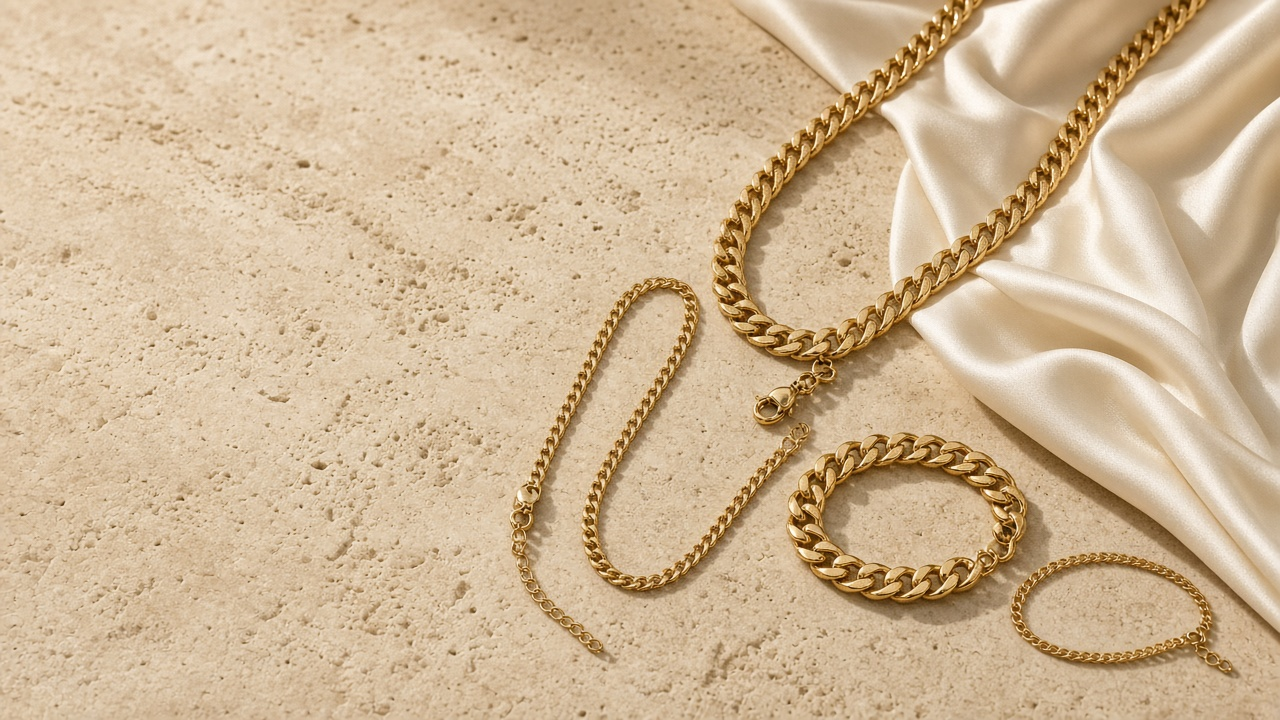
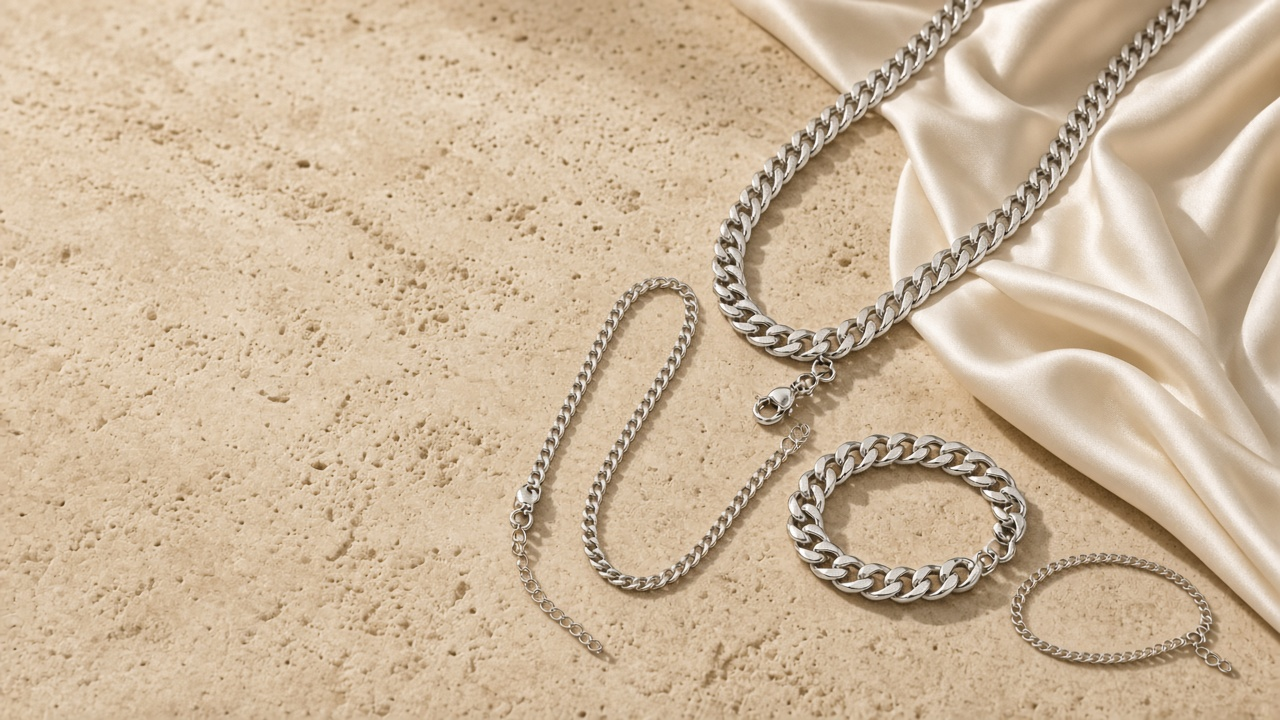
Restyle Ella y Él collection in silver

Changed region(s): [[0.375, 0.0, 0.9688, 0.9472], [0.4375, 0.8556, 0.4688, 0.9167]]

diff --git a/src/lib/products.ts b/src/lib/products.ts
@@ -26,11 +26,11 @@ export const products: Product[] = [
     category: "Para dos",
     style: "Cubana",
     price: 248,
-    material: "Baño de oro 18k · Acero 316L",
+    material: "Plata 925 · Acabado pulido",
     description:
       "El set completo para compartir: una versión firme para él y una más delicada para ella.",
     pieces: "2 collares · 2 brazaletes",
-    gradient: ["#ead8b8", "#bf9558"],
+    gradient: ["#e8e9e8", "#9fa5a8"],
   },
   {
     id: "cubana-collares",
@@ -38,11 +38,11 @@ export const products: Product[] = [
     category: "Solo collares",
     style: "Cubana",
     price: 138,
-    material: "Baño de oro 18k · 5 y 8 mm",
+    material: "Plata 925 · 5 y 8 mm",
     description:
       "Dos cadenas cubanas en anchos complementarios, pensadas para llevar el mismo brillo.",
     pieces: "2 collares",
-    gradient: ["#efe2cb", "#c9a36b"],
+    gradient: ["#f0efeb", "#b3b8ba"],
   },
   {
     id: "cubana-brazaletes",
@@ -50,11 +50,11 @@ export const products: Product[] = [
     category: "Solo brazaletes",
     style: "Cubana",
     price: 98,
-    material: "Baño de oro 18k · Ajustables",
+    material: "Plata 925 · Ajustables",
     description:
       "Brazaletes a juego con dos proporciones y un acabado pulido de alto brillo.",
     pieces: "2 brazaletes",
-    gradient: ["#e8d4af", "#b98b47"],
+    gradient: ["#e3e5e4", "#979da0"],
   },
   {
     id: "cubana-personal",
@@ -62,11 +62,11 @@ export const products: Product[] = [
     category: "Collar + brazalete",
     style: "Cubana",
     price: 128,
-    material: "Baño de oro 18k · 8 mm",
+    material: "Plata 925 · 8 mm",
     description:
       "Cadena y brazalete del mismo calibre para un conjunto limpio y contundente.",
     pieces: "1 collar · 1 brazalete",
-    gradient: ["#ead7b3", "#ad7c39"],
+    gradient: ["#e5e6e5", "#8d9498"],
   },
   {
     id: "barbada-para-dos",
@@ -74,11 +74,11 @@ export const products: Product[] = [
     category: "Para dos",
     style: "Barbada",
     price: 228,
-    material: "Oro laminado 18k · Acero 316L",
+    material: "Plata 925 · Acabado espejo",
     description:
       "Cuatro piezas de eslabón plano que se sienten ligeras y se ven impecables juntas.",
     pieces: "2 collares · 2 brazaletes",
-    gradient: ["#d9cfbd", "#aa9272"],
+    gradient: ["#dfe1e1", "#959c9f"],
   },
   {
     id: "barbada-collares",
@@ -86,11 +86,11 @@ export const products: Product[] = [
     category: "Solo collares",
     style: "Barbada",
     price: 128,
-    material: "Oro laminado 18k · 3 y 6 mm",
+    material: "Plata 925 · 3 y 6 mm",
     description:
       "Un par de collares de perfil suave, uno sutil y otro con más presencia.",
     pieces: "2 collares",
-    gradient: ["#e8dfd0", "#b9a187"],
+    gradient: ["#ececea", "#a9afb1"],
   },
   {
     id: "barbada-brazaletes",
@@ -98,11 +98,11 @@ export const products: Product[] = [
     category: "Solo brazaletes",
     style: "Barbada",
     price: 88,
-    material: "Oro laminado 18k · Ajustables",
+    material: "Plata 925 · Ajustables",
     description:
       "Dos brazaletes planos y cómodos creados para acompañarse todos los días.",
     pieces: "2 brazaletes",
-    gradient: ["#ddd2c0", "#aa9274"],
+    gradient: ["#dfe1df", "#949b9e"],
   },
   {
     id: "barbada-personal",
@@ -110,11 +110,11 @@ export const products: Product[] = [
     category: "Collar + brazalete",
     style: "Barbada",
     price: 118,
-    material: "Oro laminado 18k · 6 mm",
+    material: "Plata 925 · 6 mm",
     description:
       "Collar y brazalete barbados con una caída fluida y proporción perfectamente coordinada.",
     pieces: "1 collar · 1 brazalete",
-    gradient: ["#dfd4c2", "#9f8564"],
+    gradient: ["#e0e2e1", "#858d91"],
   },
   {
     id: "cartier-para-dos",
@@ -122,11 +122,11 @@ export const products: Product[] = [
     category: "Para dos",
     style: "Eslabón Cartier",
     price: 268,
-    material: "Baño de oro 18k · Acero 316L",
+    material: "Plata 925 · Acabado pulido",
     description:
       "Nuestra propuesta más refinada: eslabones definidos en cuatro piezas para compartir.",
     pieces: "2 collares · 2 brazaletes",
-    gradient: ["#efe0c4", "#c49a5b"],
+    gradient: ["#e9eae8", "#a1a7aa"],
   },
   {
     id: "cartier-collares",
@@ -134,11 +134,11 @@ export const products: Product[] = [
     category: "Solo collares",
     style: "Eslabón Cartier",
     price: 148,
-    material: "Baño de oro 18k · 4 y 7 mm",
+    material: "Plata 925 · 4 y 7 mm",
     description:
       "Dos collares de eslabón alargado con acabados distintos y una misma intención.",
     pieces: "2 collares",
-    gradient: ["#eee2cf", "#c5a576"],
+    gradient: ["#efefec", "#b1b6b8"],
   },
   {
     id: "cartier-brazaletes",
@@ -146,11 +146,11 @@ export const products: Product[] = [
     category: "Solo brazaletes",
     style: "Eslabón Cartier",
     price: 108,
-    material: "Baño de oro 18k · Ajustables",
+    material: "Plata 925 · Ajustables",
     description:
       "Brazaletes de eslabón elegante para combinar entre sí o llevar por separado.",
     pieces: "2 brazaletes",
-    gradient: ["#e6d9c5", "#b99564"],
+    gradient: ["#e3e4e2", "#989fa2"],
   },
   {
     id: "cartier-personal",
@@ -158,11 +158,11 @@ export const products: Product[] = [
     category: "Collar + brazalete",
     style: "Eslabón Cartier",
     price: 138,
-    material: "Baño de oro 18k · 7 mm",
+    material: "Plata 925 · 7 mm",
     description:
       "Un collar y un brazalete coordinados por el ritmo de sus eslabones geométricos.",
     pieces: "1 collar · 1 brazalete",
-    gradient: ["#e9dcc8", "#aa8555"],
+    gradient: ["#e4e5e3", "#8c9497"],
   },
 ];
 

diff --git a/src/app/page.tsx b/src/app/page.tsx
@@ -32,14 +32,14 @@ export default async function Home() {
 
       <main className="flex-1">
         <section className="mx-auto max-w-[1440px] px-3 pt-3 sm:px-6 sm:pt-6">
-          <div className="grid min-h-[650px] overflow-hidden rounded-[2rem] bg-[#e9dfcf] lg:grid-cols-[0.82fr_1.18fr]">
+          <div className="grid min-h-[650px] overflow-hidden rounded-[2rem] bg-[#e4e3df] lg:grid-cols-[0.82fr_1.18fr]">
             <div className="relative z-10 flex flex-col justify-center px-7 py-14 sm:px-12 lg:px-16">
-              <p className="text-xs uppercase tracking-[0.4em] text-[#8b6537]">
+              <p className="text-xs uppercase tracking-[0.4em] text-[#687075]">
                 Nueva colección · Para compartir
               </p>
               <h1 className="mt-5 text-balance text-6xl font-medium leading-[0.9] tracking-[-0.055em] sm:text-7xl xl:text-8xl">
                 Ella
-                <span className="block font-light italic text-[#9b713e]">
+                <span className="block font-light italic text-[#767e82]">
                   y Él
                 </span>
               </h1>
@@ -66,7 +66,7 @@ export default async function Home() {
             <div className="relative min-h-[380px] lg:min-h-full">
               <Image
                 src="/images/ella-y-el-hero.png"
-                alt="Dos collares y dos brazaletes cubanos dorados a juego sobre piedra y seda"
+                alt="Dos collares y dos brazaletes cubanos de plata a juego sobre piedra y seda"
                 fill
                 priority
                 sizes="(min-width: 1024px) 58vw, 100vw"
@@ -85,7 +85,7 @@ export default async function Home() {
           className="mx-auto grid max-w-6xl gap-8 px-6 py-20 md:grid-cols-3"
         >
           <div>
-            <p className="text-xs uppercase tracking-[0.32em] text-[#9b713e]">
+            <p className="text-xs uppercase tracking-[0.32em] text-[#687075]">
               01 · Para dos
             </p>
             <h2 className="mt-3 text-2xl font-medium">El set completo</h2>
@@ -94,7 +94,7 @@ export default async function Home() {
             </p>
           </div>
           <div className="border-t border-black/10 pt-8 md:border-l md:border-t-0 md:pl-8 md:pt-0">
-            <p className="text-xs uppercase tracking-[0.32em] text-[#9b713e]">
+            <p className="text-xs uppercase tracking-[0.32em] text-[#687075]">
               02 · Solo ustedes
             </p>
             <h2 className="mt-3 text-2xl font-medium">Dúos a juego</h2>
@@ -103,7 +103,7 @@ export default async function Home() {
             </p>
           </div>
           <div className="border-t border-black/10 pt-8 md:border-l md:border-t-0 md:pl-8 md:pt-0">
-            <p className="text-xs uppercase tracking-[0.32em] text-[#9b713e]">
+            <p className="text-xs uppercase tracking-[0.32em] text-[#687075]">
               03 · Para ti
             </p>
             <h2 className="mt-3 text-2xl font-medium">Tu combinación</h2>

diff --git a/src/components/ProductCard.tsx b/src/components/ProductCard.tsx
@@ -38,18 +38,18 @@ export function ProductCard({ product }: { product: Product }) {
           className="absolute inset-0 transition-transform duration-700 group-hover:scale-105"
         >
           {!isBraceletsOnly && (
-            <div className="absolute left-[16%] top-[24%] h-[52%] w-[52%] rotate-[-12deg] rounded-[50%] border-[5px] border-[#9f7135] shadow-[inset_0_0_0_2px_rgba(255,255,255,0.28),0_18px_30px_rgba(92,56,21,0.18)]" />
+            <div className="absolute left-[16%] top-[24%] h-[52%] w-[52%] rotate-[-12deg] rounded-[50%] border-[5px] border-[#70777b] shadow-[inset_0_0_0_2px_rgba(255,255,255,0.7),0_18px_30px_rgba(45,52,56,0.2)]" />
           )}
           {isCouple && (
-            <div className="absolute right-[8%] top-[29%] h-[47%] w-[44%] rotate-[15deg] rounded-[50%] border-[3px] border-[#c49a5a] shadow-[inset_0_0_0_1px_rgba(255,255,255,0.4),0_16px_25px_rgba(92,56,21,0.16)]" />
+            <div className="absolute right-[8%] top-[29%] h-[47%] w-[44%] rotate-[15deg] rounded-[50%] border-[3px] border-[#aeb4b6] shadow-[inset_0_0_0_1px_rgba(255,255,255,0.9),0_16px_25px_rgba(45,52,56,0.16)]" />
           )}
           {(isCouple ||
             isBraceletsOnly ||
             product.category === "Collar + brazalete") && (
-            <div className="absolute bottom-[15%] right-[12%] h-[24%] w-[31%] rotate-[-9deg] rounded-[50%] border-[5px] border-[#ad7b38] shadow-[inset_0_0_0_2px_rgba(255,255,255,0.3),0_12px_20px_rgba(92,56,21,0.2)]" />
+            <div className="absolute bottom-[15%] right-[12%] h-[24%] w-[31%] rotate-[-9deg] rounded-[50%] border-[5px] border-[#747c80] shadow-[inset_0_0_0_2px_rgba(255,255,255,0.75),0_12px_20px_rgba(45,52,56,0.2)]" />
           )}
           {(isCouple || isBraceletsOnly) && (
-            <div className="absolute bottom-[9%] left-[14%] h-[20%] w-[27%] rotate-[18deg] rounded-[50%] border-[3px] border-[#d0aa6b] shadow-[inset_0_0_0_1px_rgba(255,255,255,0.4),0_10px_18px_rgba(92,56,21,0.14)]" />
+            <div className="absolute bottom-[9%] left-[14%] h-[20%] w-[27%] rotate-[18deg] rounded-[50%] border-[3px] border-[#b7bcbf] shadow-[inset_0_0_0_1px_rgba(255,255,255,0.9),0_10px_18px_rgba(45,52,56,0.14)]" />
           )}
         </div>
       </div>
@@ -64,7 +64,7 @@ export function ProductCard({ product }: { product: Product }) {
         <p className="flex-1 text-sm leading-relaxed text-black/60">
           {product.description}
         </p>
-        <p className="text-xs font-medium uppercase tracking-[0.16em] text-[#9b713e]">
+        <p className="text-xs font-medium uppercase tracking-[0.16em] text-[#6f777b]">
           Incluye {product.pieces}
         </p>
         <div className="flex items-center justify-between pt-2">

diff --git a/src/components/CollectionBrowser.tsx b/src/components/CollectionBrowser.tsx
@@ -67,7 +67,7 @@ export function CollectionBrowser({ products }: { products: Product[] }) {
   return (
     <section id="collection" className="mx-auto max-w-6xl px-6 py-20">
       <div className="max-w-2xl">
-        <p className="text-xs uppercase tracking-[0.36em] text-[#9b713e]">
+        <p className="text-xs uppercase tracking-[0.36em] text-[#687075]">
           Combínalos a tu manera
         </p>
         <h2 className="mt-3 text-3xl font-medium sm:text-4xl">
